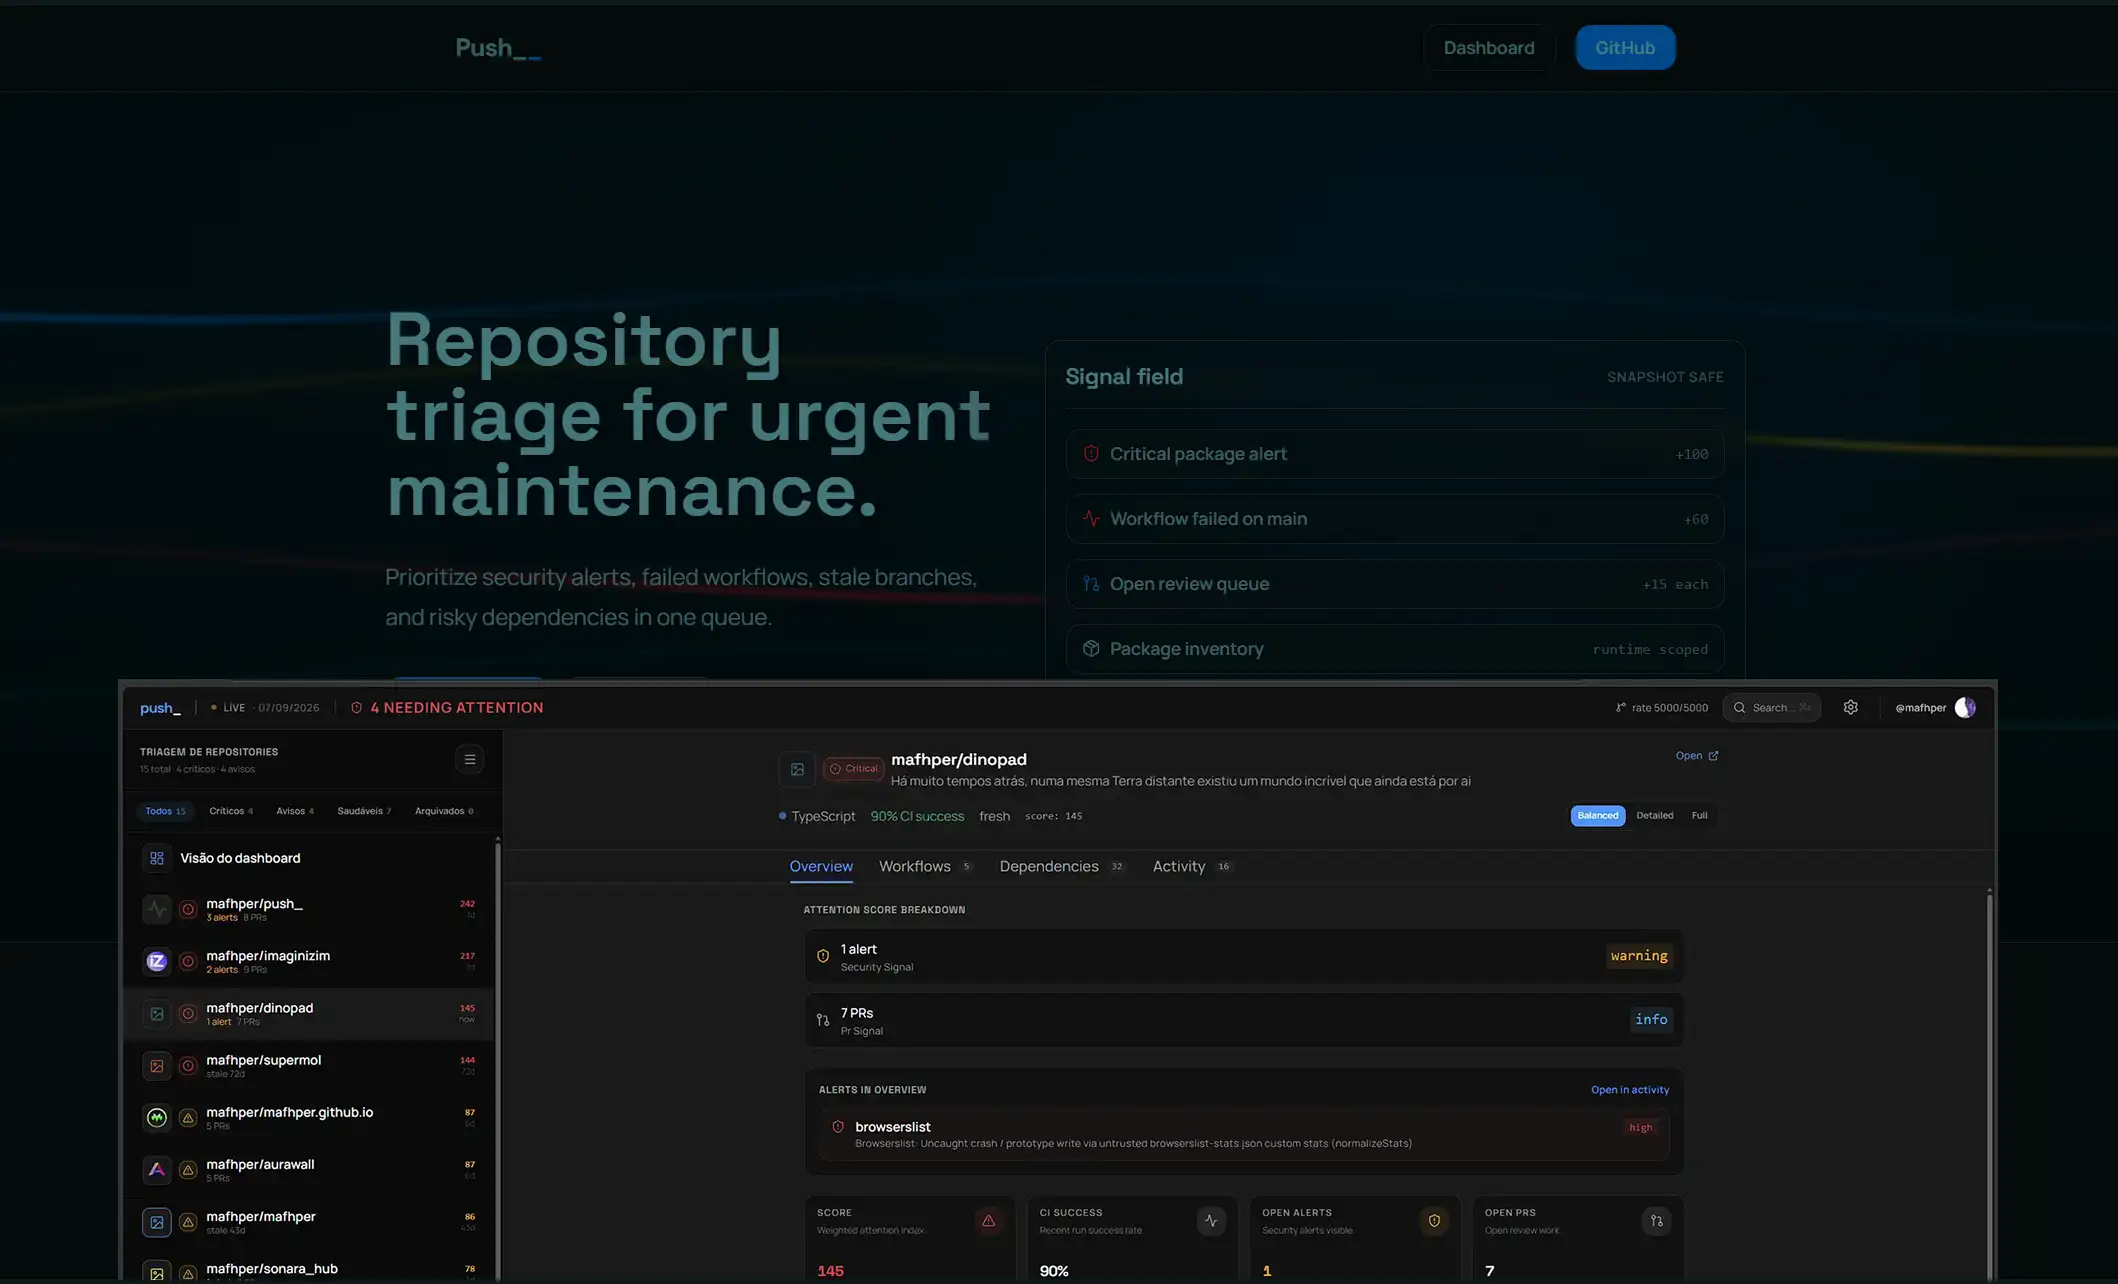
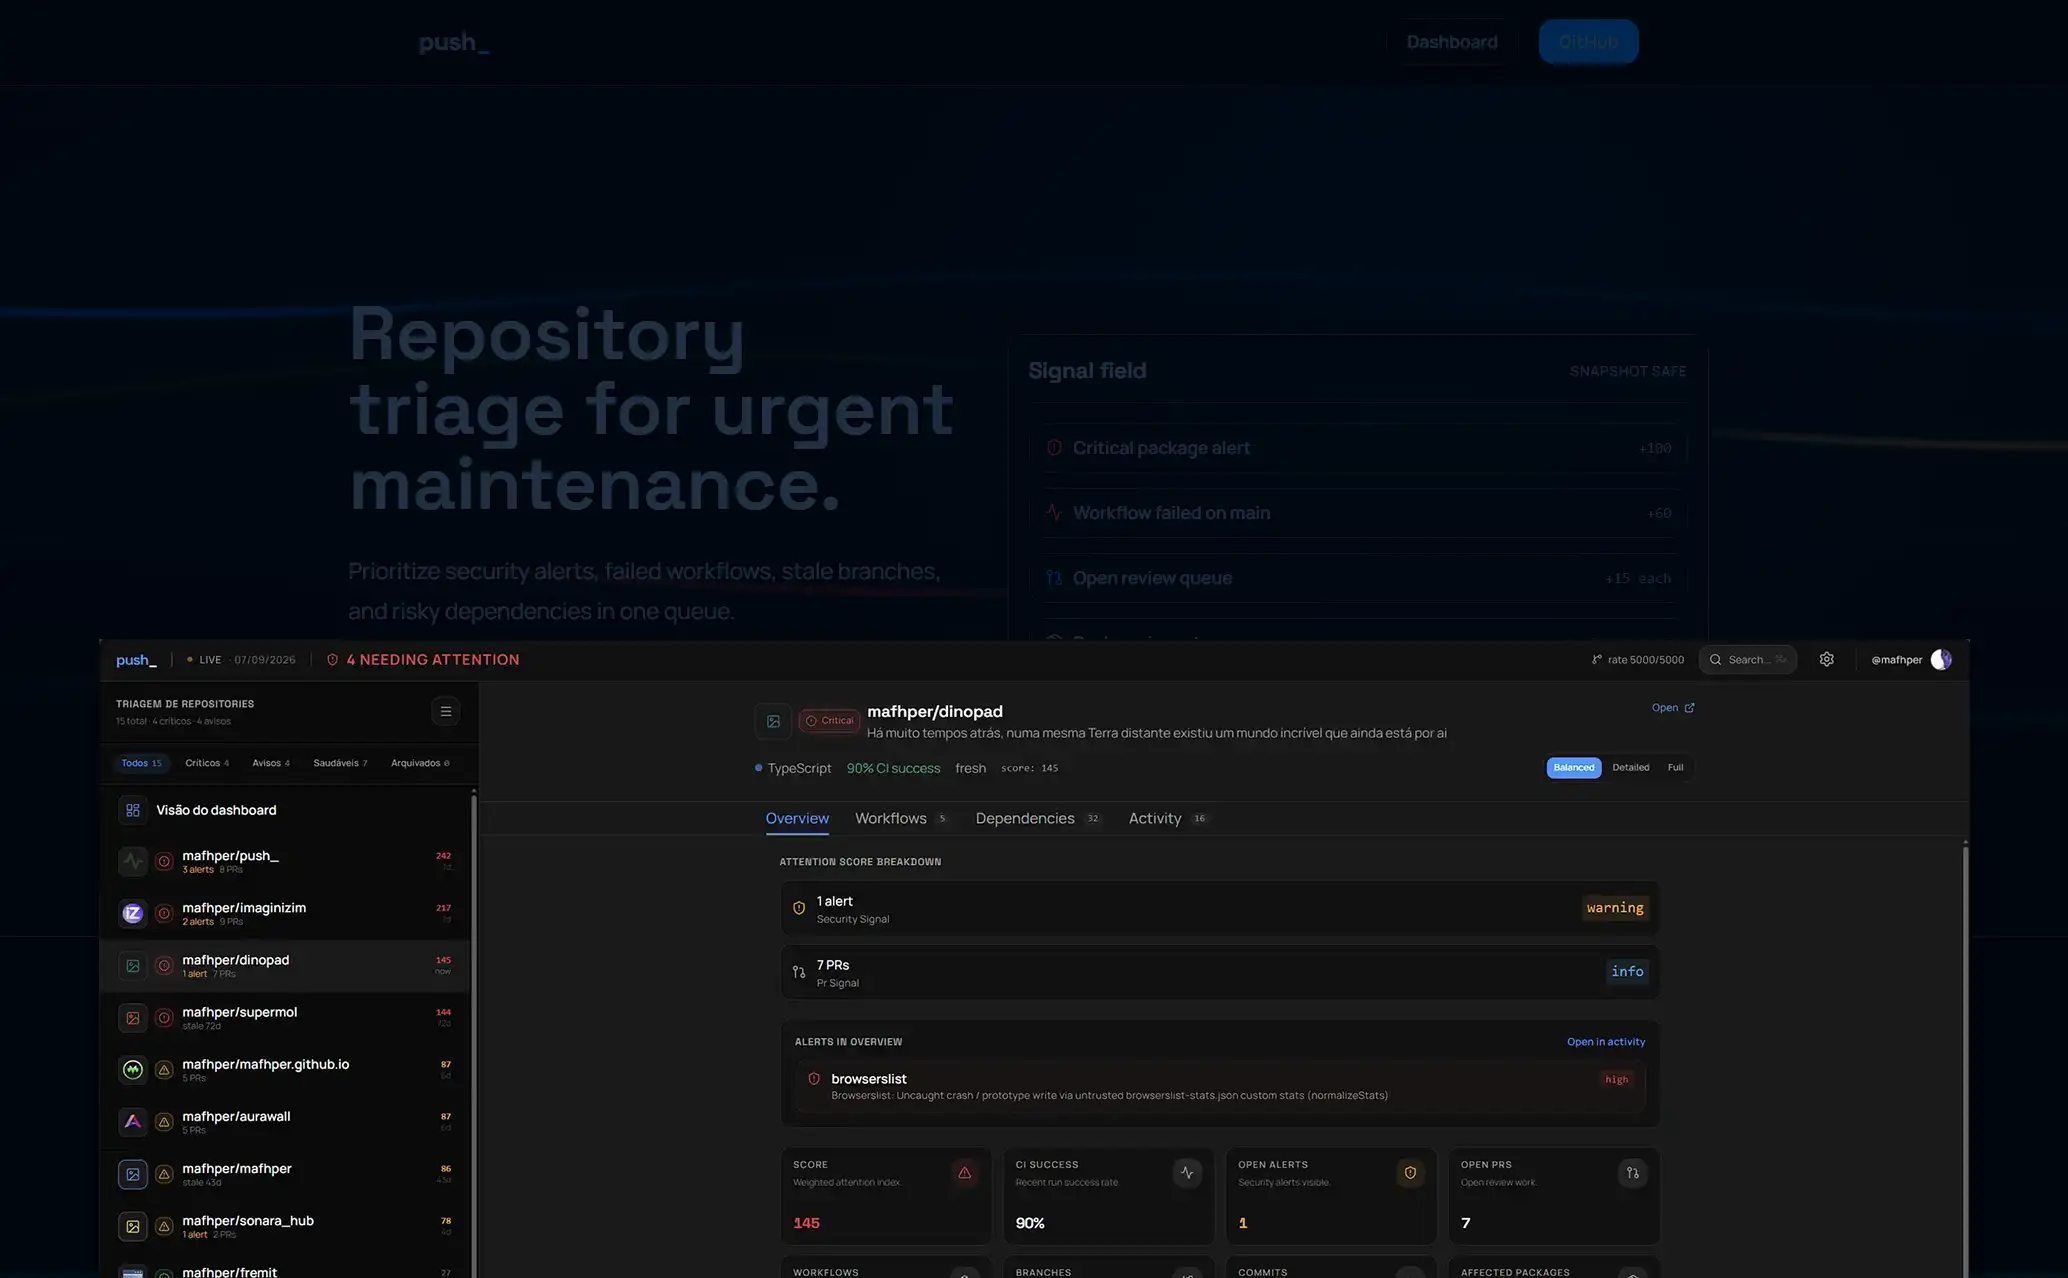
chore: release v1.1.1 — brand casing, bundle naming, plain-language release notes (#104)

diff --git a/scripts/release.js b/scripts/release.js
@@ -24,7 +24,7 @@ async function updateTauriConfig(newVersion) {
     const content = await fs.readFile(tauriConfigPath, "utf8");
     const config = JSON.parse(content);
     config.version = newVersion;
-    config.productName = "push_";
+    config.productName = "push";
     if (Array.isArray(config.app?.windows) && config.app.windows[0]) {
       config.app.windows[0].title = "push_";
     }

diff --git a/.github/release-notes/v1.1.md b/.github/release-notes/v1.1.md
@@ -1,26 +1,15 @@
-Boot do desktop muito mais rápido, principalmente em reaberturas (warm start).
+## v1.1.1
 
-### Boot
+- Nome do app padronizado como **push_** (sempre minúsculo) em todo o app e instalador.
+- Instalador do Windows atualizado — agora instalado como `push_`, com o nome do arquivo corrigido.
+- Título da janela e identidade visual consistentes em todos os lugares.
+- Ajustes visuais para deixar a marca uniforme.
 
-- Janela só é revelada depois que o shell monta e o cache hidrata (máx. ~2,5s de espera); watchdog Rust revela em 5s como fail-safe
-- Skeleton estrutural no lugar do spinner genérico durante o primeiro carregamento do dashboard
-- Indicador discreto "Updating..." quando dados são atualizados em background
-- Métricas de start-up instrumentadas no caminho crítico de boot (para desenvolvimento)
+## v1.1.0
 
-### Cache (warm start)
-
-- React Query persistido em arquivo local versionado do app (`query-cache.json`, retenção 24h)
-- Apenas queries da allowlist são persistidas (nunca token)
-- Reabertura do app hidrata o dashboard a partir do cache antes de ir à rede
-
-### Sessão e identidade
-
-- Bootstrap assíncrono: token carrega, a UI renderiza e a validação/diagnóstico roda em background
-- Query keys estáveis (removido o fator por-boot que invalidava o cache a cada abertura)
-- Identidade (username/avatar) apresentacional em localStorage; token segue apenas no keyring do SO
-- Política explícita: logout preserva preferências, token inválido mantém cache para re-auth, limpeza total purga tudo
-- Estados de sessão `loading | authenticated | anonymous | invalid` expostos ao UI
-
-### Limpeza
-
-- Removidas dependências não utilizadas (`@octokit/rest`, `date-fns`)
+- O app abre muito mais rápido, principalmente em reaberturas.
+- A janela só aparece quando o app está pronto — sem tela em branco.
+- Carregamento do painel com um indicador discreto de atualização.
+- Preferências e login mais estáveis entre uma sessão e outra.
+- Login guardado na proteção do próprio sistema, sem ficar em arquivos.
+- Limpeza de partes internas que não eram mais usadas.
